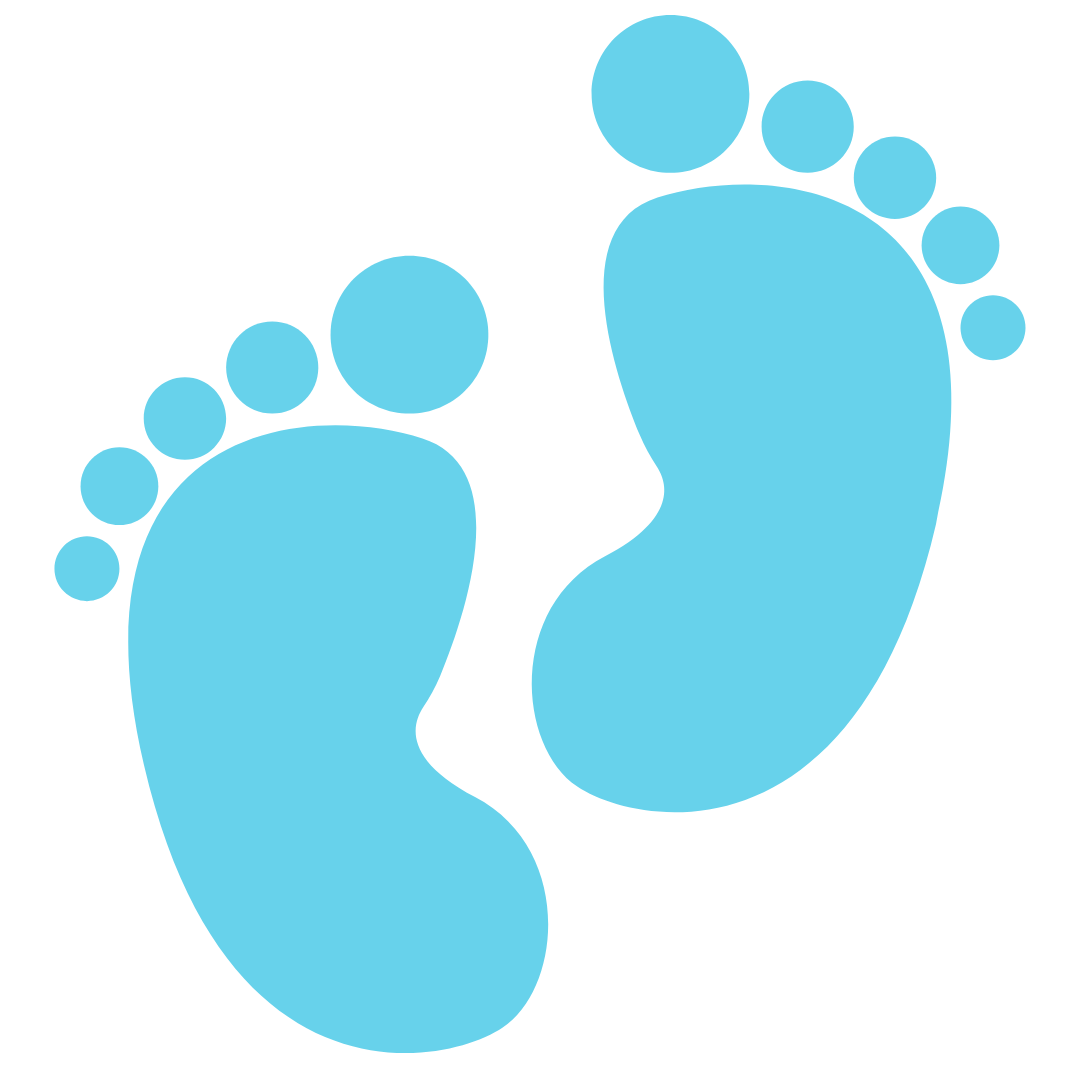
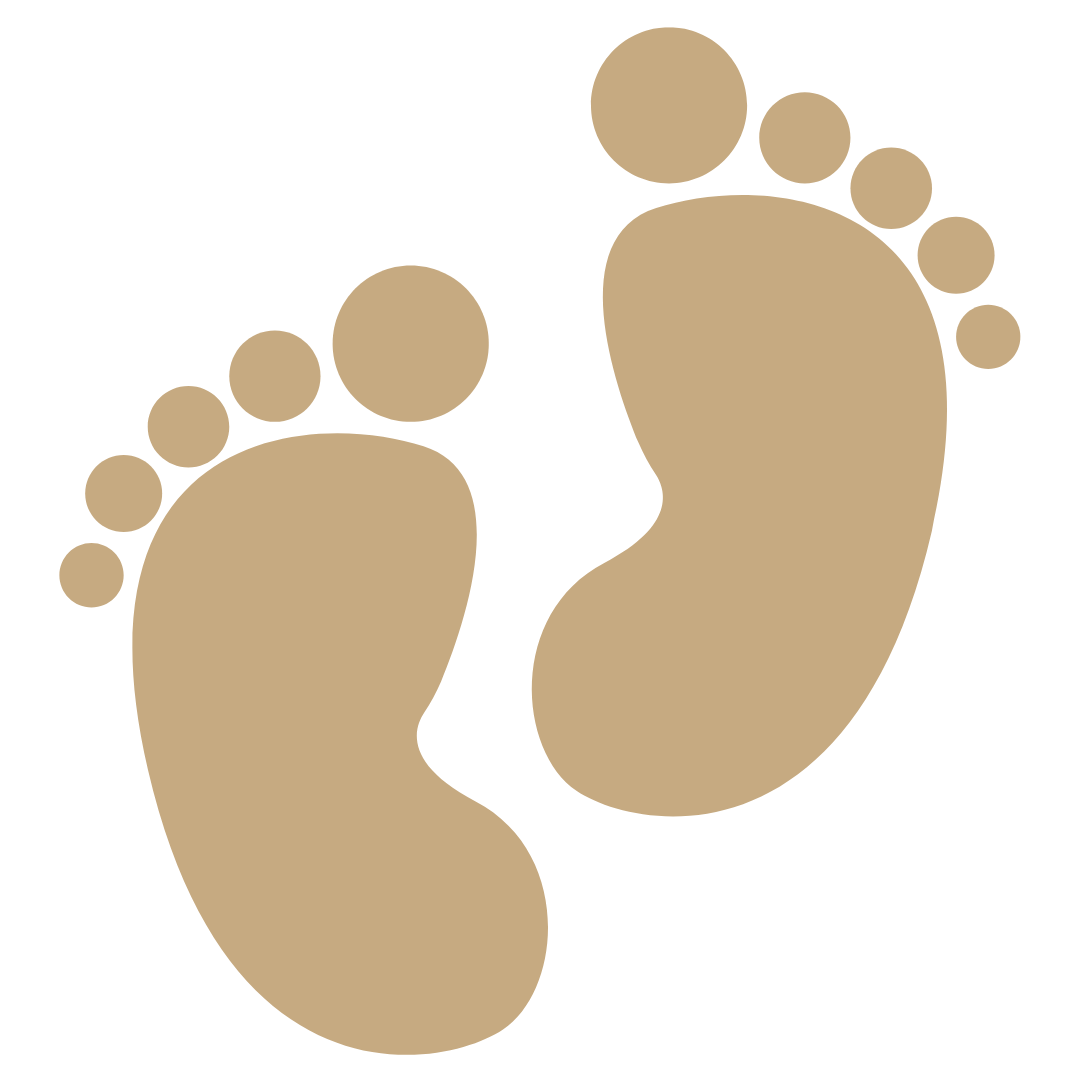
Add files via upload

diff --git a/index.html b/index.html
@@ -13,9 +13,9 @@
         <meta property="og:type" content="website"/>
         <meta property="og:title" content="¡Hola Alondra!"/>
         <meta property="og:description" content="Da click en el enlace para ver tu invitación."/>
-        <meta property="og:url" content="https://nuestrobabyshower.github.io/liamandre/index.html"/>
+        <meta property="og:url" content="https://nuestrobabyshower.github.io/eduardo/index.html"/>
         <meta property="article:modified_time" content="2023-02-19T17:24:46+00:00"/>
-        <meta property="og:image" content="https://nuestrobabyshower.github.io/liamandre/img/portadaMensaje.jpg"/>
+        <meta property="og:image" content="https://nuestrobabyshower.github.io/eduardo/img/portadaMensaje.jpg"/>
         <meta property="og:image:width" content="1080"/>
         <meta property="og:image:height" content="1080"/>
         <meta property="og:image:type" content="image/jpeg"/>
@@ -26,49 +26,49 @@
       "@graph": [
           {
               "@type": "Organization",
-              "@id": "https://nuestrobabyshower.github.io/liamandre/index.html/#/schema/Organization/1",
+              "@id": "https://nuestrobabyshower.github.io/eduardo/index.html/#/schema/Organization/1",
               "name": "¡Hola Alondra!",
-              "url": "https://nuestrobabyshower.github.io/liamandre/index.html",
+              "url": "https://nuestrobabyshower.github.io/eduardo/index.html",
               "sameAs": [
               ],
               "logo": {
                   "@type": "ImageObject",
-                  "@id": "https://nuestrobabyshower.github.io/liamandre/img/portadaMensaje.jpg",
-                  "url": "https://nuestrobabyshower.github.io/liamandre/img/portadaMensaje.jpg",
-                  "contentUrl": "https://nuestrobabyshower.github.io/liamandre/img/portadaMensaje.jpg",
+                  "@id": "https://nuestrobabyshower.github.io/eduardo/img/portadaMensaje.jpg",
+                  "url": "https://nuestrobabyshower.github.io/eduardo/img/portadaMensaje.jpg",
+                  "contentUrl": "https://nuestrobabyshower.github.io/eduardo/img/portadaMensaje.jpg",
                   "width": 1080,
                   "height": 1080,
                   "caption": "Example Image"
               },
               "image": {
-                  "@id": "https://nuestrobabyshower.github.io/liamandre/img/portadaMensaje.jpg"
+                  "@id": "https://nuestrobabyshower.github.io/eduardo/img/portadaMensaje.jpg"
               }
           },
           {
               "@type": "WebSite",
-              "@id": "https://nuestrobabyshower.github.io/liamandre/index.html/#/schema/WebSite/1",
-              "url": "https://nuestrobabyshower.github.io/liamandre/index.html",
+              "@id": "https://nuestrobabyshower.github.io/eduardo/index.html/#/schema/WebSite/1",
+              "url": "https://nuestrobabyshower.github.io/eduardo/index.html",
               "name": "¡Hola Alondra!",
               "publisher": {
-                  "@id": "https://nuestrobabyshower.github.io/liamandre/index.html/#/schema/Organization/1"
+                  "@id": "https://nuestrobabyshower.github.io/eduardo/index.html/#/schema/Organization/1"
               },
               "potentialAction": {
                   "@type": "SearchAction",
-                  "target": "https://nuestrobabyshower.github.io/liamandre/index.html/?s={search_term_string}",
+                  "target": "https://nuestrobabyshower.github.io/eduardo/index.html/?s={search_term_string}",
                   "query-input": "required name=search_term_string"
               }
           },
           {
               "@type": "WebPage",
-              "@id": "https://nuestrobabyshower.github.io/liamandre/index.html",
-              "url": "https://nuestrobabyshower.github.io/liamandre/index.html",
+              "@id": "https://nuestrobabyshower.github.io/eduardo/index.html",
+              "url": "https://nuestrobabyshower.github.io/eduardo/index.html",
               "inLanguage": "es",
               "name": "Example Page",
               "isPartOf": {
-                  "@id": "https://nuestrobabyshower.github.io/liamandre/index.html/#/schema/WebSite/1"
+                  "@id": "https://nuestrobabyshower.github.io/eduardo/index.html/#/schema/WebSite/1"
               },
               "about": {
-                  "@id": "https://nuestrobabyshower.github.io/liamandre/index.html/#/schema/Organization/1"
+                  "@id": "https://nuestrobabyshower.github.io/eduardo/index.html/#/schema/Organization/1"
               },
               "datePublished": "2015-09-14T08:13:22+00:00",
               "dateModified": "2019-03-28T12:46:37+00:00",
@@ -78,8 +78,8 @@
   }
         </script>
 
-         <link rel="alternate" type="application/rss+xml" title=" &raquo; Feed" href="https://nuestrobabyshower.github.io/liamandre/index.html/feed/"/>
-        <link rel="alternate" type="application/rss+xml" title=" &raquo; Feed de los comentarios" href="https://nuestrobabyshower.github.io/liamandre/index.html/comments/feed/"/>
+         <link rel="alternate" type="application/rss+xml" title=" &raquo; Feed" href="https://nuestrobabyshower.github.io/eduardo/index.html/feed/"/>
+        <link rel="alternate" type="application/rss+xml" title=" &raquo; Feed de los comentarios" href="https://nuestrobabyshower.github.io/eduardo/index.html/comments/feed/"/>
         
     <link rel="stylesheet" href="https://stackpath.bootstrapcdn.com/bootstrap/4.2.1/css/bootstrap.min.css" integrity="sha384-GJzZqFGwb1QTTN6wy59ffF1BuGJpLSa9DkKMp0DgiMDm4iYMj70gZWKYbI706tWS" crossorigin="anonymous">
     <link rel="stylesheet" href="css/index.css">
@@ -133,7 +133,7 @@
 <h5 class='nombres1 mb-0 col-lg-12 text-center mt-4' ><b>¡Copia el link (URL) y pégalo en la red social de tu preferencia!</b></h5>  
 
 <div class="row justify-content-center" style="margin:0 auto;">
-    <input class="mt-3 col-6" type="text" value="https://nuestrobabyshower.github.io/liamandre/inicio.html" id="target1" readonly>
+    <input class="mt-3 col-6" type="text" value="https://nuestrobabyshower.github.io/eduardo/inicio.html" id="target1" readonly>
 <button id="boton" class="example2 col-4 col-md-3 mt-3" onclick="copiar()">Copiar</button>
 </div>
 

diff --git a/css/demo001.css b/css/demo001.css
@@ -552,7 +552,7 @@ font-family: "Montserrat",Sans-serif;
   color:#000;
   font-size: 15px;
    box-shadow: 0 0 25px gray;
-  background: linear-gradient(to right, #67D2EB, #67D2EB);
+  background: linear-gradient(to right, #c6aa81, #c6aa81);
   opacity:0.70;
 height:30px; 
 display:flex;
@@ -609,7 +609,7 @@ align-items: center;
  font-size:50px;
  margin-top: 0px;
  margin-bottom: 0px;
-    color:#67D2EB; opacity: 0.5;
+    color:#c6aa81; opacity: 0.5;
 }
 @media only screen and (max-width: 380px) and (min-width: 320px)  {
 
@@ -619,7 +619,7 @@ font-family: "Montserrat",Sans-serif;
   color:#091921;
   font-size: 14px;
    box-shadow: 0 0 25px gray;
-  background: linear-gradient(to right, #67D2EB, #67D2EB);
+  background: linear-gradient(to right, #c6aa81, #c6aa81);
   opacity:0.70;
 height:30px; 
 display:flex;
@@ -644,7 +644,7 @@ font-family: "Montserrat",Sans-serif;
   color:#091921;
   font-size: 12px;
    box-shadow: 0 0 25px gray;
-  background: linear-gradient(to right, #67D2EB, #67D2EB);
+  background: linear-gradient(to right, #c6aa81, #c6aa81);
   opacity:0.70;
 height:30px; 
 display:flex;
@@ -682,7 +682,7 @@ align-items: center;
  font-size:40px;
  margin-top: 0px;
  margin-bottom: 0px;
-    color:#67D2EB; opacity: 0.5;
+    color:#c6aa81; opacity: 0.5;
 }
 
 }
@@ -1058,7 +1058,7 @@ box-shadow: 0 0 10px gray;
 
 .btn{
   text-decoration:none;
-  background: linear-gradient(#67D2EB, #FA72AD);
+  background: linear-gradient(#c6aa81, #FA72AD);
   opacity:0.7;
   color:black;
 
@@ -1076,7 +1076,7 @@ box-shadow: 0 0 10px gray;
   letter-spacing: 3px;
   text-decoration: none;
   color:#000;
-  background: linear-gradient(#67D2EB, #67D2EB);
+  background: linear-gradient(#c6aa81, #c6aa81);
   opacity:0.7;
   font-family: 'Arapey', serif; 
   font-size: 15px;
@@ -1091,19 +1091,19 @@ box-shadow: 0 0 10px gray;
   background: linear-gradient(#fff, #fff);
   font-family: 'Arapey', serif; 
   font-size: 15px;
-  color:#000;
+  color:#c6aa81;
   height: 45px;
-  border-top: 2px solid #67D2EB;
-  border-bottom: 2px solid #67D2EB;
-  border-right: 2px solid #67D2EB;
-  border-left: 2px solid #67D2EB;
-  border-color: #67D2EB;
+  border-top: 2px solid #c6aa81;
+  border-bottom: 2px solid #c6aa81;
+  border-right: 2px solid #c6aa81;
+  border-left: 2px solid #c6aa81;
+  border-color: #c6aa81;
 }
 .btnComoLlegar2{
   letter-spacing: 3px;
   text-decoration: none;
   color:#000;
-  background: linear-gradient(#67D2EB, #67D2EB);
+  background: linear-gradient(#c6aa81, #c6aa81);
   opacity:0.7;
   font-family: 'Arapey', serif; 
   font-size: 15px;
@@ -1118,13 +1118,13 @@ box-shadow: 0 0 10px gray;
  background: linear-gradient(#fff, #fff);
   font-family: 'Arapey', serif; 
   font-size: 15px;
-  color:#000;
+  color:#c6aa81;
   height: 45px;
-  border-top: 2px solid #67D2EB;
-  border-bottom: 2px solid #67D2EB;
-  border-right: 2px solid #67D2EB;
-  border-left: 2px solid #67D2EB;
-  border-color: #67D2EB;
+  border-top: 2px solid #c6aa81;
+  border-bottom: 2px solid #c6aa81;
+  border-right: 2px solid #c6aa81;
+  border-left: 2px solid #c6aa81;
+  border-color: #c6aa81;
 }
 @media only screen and (max-width: 380px) and (min-width: 320px)  {
   .btn{
@@ -1460,8 +1460,8 @@ margin-bottom:;}
   box-shadow: 0 0 10px gray;
   border-top: 1px solid #9B7A07;
   border-bottom: 1px solid #9B7A07;
-  border-right: 1px solid #67D2EB;
-  border-left: 1px solid #67D2EB;
+  border-right: 1px solid #c6aa81;
+  border-left: 1px solid #c6aa81;
   border-color: #8F9677;
 }
 
@@ -1473,8 +1473,8 @@ margin-bottom:;}
   margin-bottom: 16px;
   border-top: 1px solid #E5E5E5;
   border-right: 1px solid #E5E5E5;
-  border-bottom: 3px solid #67D2EB;
-  border-left: 3px solid #67D2EB;
+  border-bottom: 3px solid #c6aa81;
+  border-left: 3px solid #c6aa81;
   
 font-family: 'calibri', serif;
   font-size: 18px;
@@ -1489,7 +1489,7 @@ font-family: 'calibri', serif;
 }
 
 .form-register a {
-  color: #67D2EB;
+  color: #c6aa81;
   text-decoration: none;
 }
 
@@ -1518,8 +1518,8 @@ font-family: 'calibri', serif;
   font-size: 20px;
   border-top: 1px solid #E5E5E5;
   border-right: 1px solid #E5E5E5;
-  border-bottom: 3px solid #67D2EB;
-  border-left: 3px solid #67D2EB;
+  border-bottom: 3px solid #c6aa81;
+  border-left: 3px solid #c6aa81;
 }
 
 .custom-select2 select {
@@ -1703,12 +1703,12 @@ time {
   }
 }
 audio{
-  background: linear-gradient(to right, #67D2EB, #67D2EB);
+  background: linear-gradient(to right, #c6aa81, #c6aa81);
   
 }
 audio::-webkit-media-controls-panel {
 
-  background: linear-gradient(to right, #67D2EB, #67D2EB);
+  background: linear-gradient(to right, #c6aa81, #c6aa81);
   
  
   

diff --git a/inicio.html b/inicio.html
@@ -210,9 +210,9 @@ box-shadow: 1px 31px 33px 0px rgba(105,98,105,1);">SEPARADOR</h5>
             
 
                 
-                <p id="icono" style="font-size: 120px; color:#67D2EB"><i class="fas fa-baby"></i></p> 
+                <p id="icono" style="font-size: 120px; color:#c6aa81"><i class="fas fa-baby"></i></p> 
                 <div class="row justify-content-center ml-0">
-                        <h6 class='lugar col-12 col-md-9 mt-3 text-center text-white' >DOMICILIO CONOCIDO</h6>
+                        <h6 class='lugar col-12 col-md-9 mt-3 text-center text-white' >JARDÍN EL NOGAL, DE TOMYLINGOS</h6>
                 </div> 
                 <div class="row justify-content-center horas" style="width:100%; margin:0 auto;"> 
                     <div class="linea2">&nbsp;</div>
@@ -223,7 +223,7 @@ box-shadow: 1px 31px 33px 0px rgba(105,98,105,1);">SEPARADOR</h5>
                 <p id="location" class='textodondeycuando col-12 col-lg-12 mt-3 mb-4 text-center text-dark' >Av. Mártires de Sonora 1017, Montebello, 34237 Durango, Dgo.</p>  
        
                 <div class="row justify-content-center ml-1">
-                    <a href="https://maps.app.goo.gl/ymGeqHVKFcbqZmk26?g_st=iw" class="btnComoLlegar btn-dark col-8 mb-4">VER EN MAPS</a>  
+                    <a href="https://maps.app.goo.gl/uQBeWnbJdfs5KAhn7" class="btnComoLlegar btn-dark col-8 mb-4">VER EN MAPS</a>  
                 </div>
                 <div class="row justify-content-center mb-4" style="margin: 0 auto" >
                          <img class="col-8 col-md-7 foto " id="" style="" src="img/amigos.webp" >
@@ -260,7 +260,7 @@ box-shadow: 1px 31px 33px 0px rgba(105,98,105,1);">SEPARADOR</h5>
         <h5 id="amazonliverpool" class='col-12 col-lg-12 mt-2 text-center' style="color:#000;  font-family: 'Arapey', serif; letter-spacing:2px">SEARS</h5> 
         <h5 class=' col-12 col-lg-12  mb-4 mb-md-0 text-center' style="color:#000;  font-family: 'Playfair Display', serif; font-size:15px"  >Código: 181762</h5>
         <div class="row justify-content-center ml-1 mt-4">
-    <a href="https://mesaderegalos.liverpool.com.mx/milistaderegalos/51618813" class="btnComoLlegar2 btn-dark col-8 mb-5" style="letter-spacing: 2px;">VER REGALOS</a> 
+    <a href="https://www.sears.com.mx/Mesa-de-Regalos/181762/invitacion" class="btnComoLlegar2 btn-dark col-8 mb-5" style="letter-spacing: 2px;">VER REGALOS</a> 
 </div>
 </div>  
         </div>  
